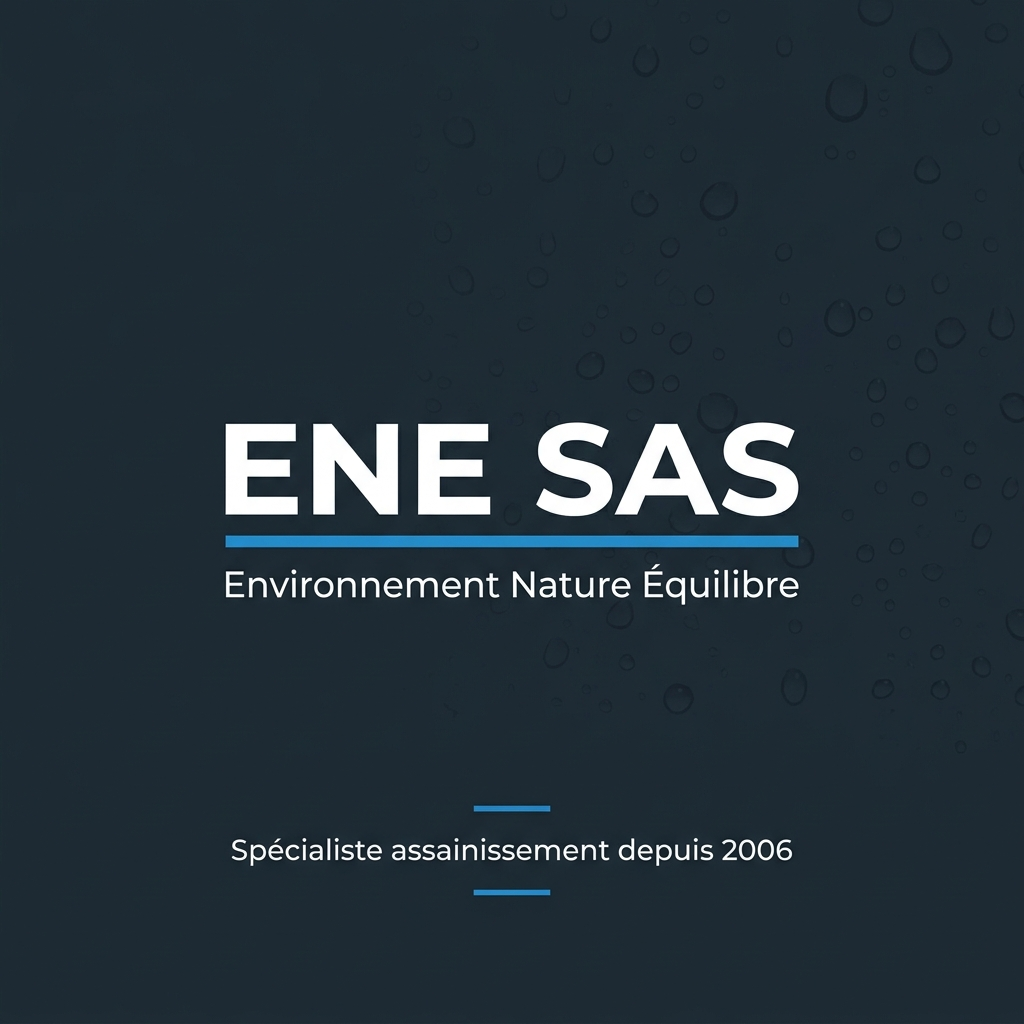
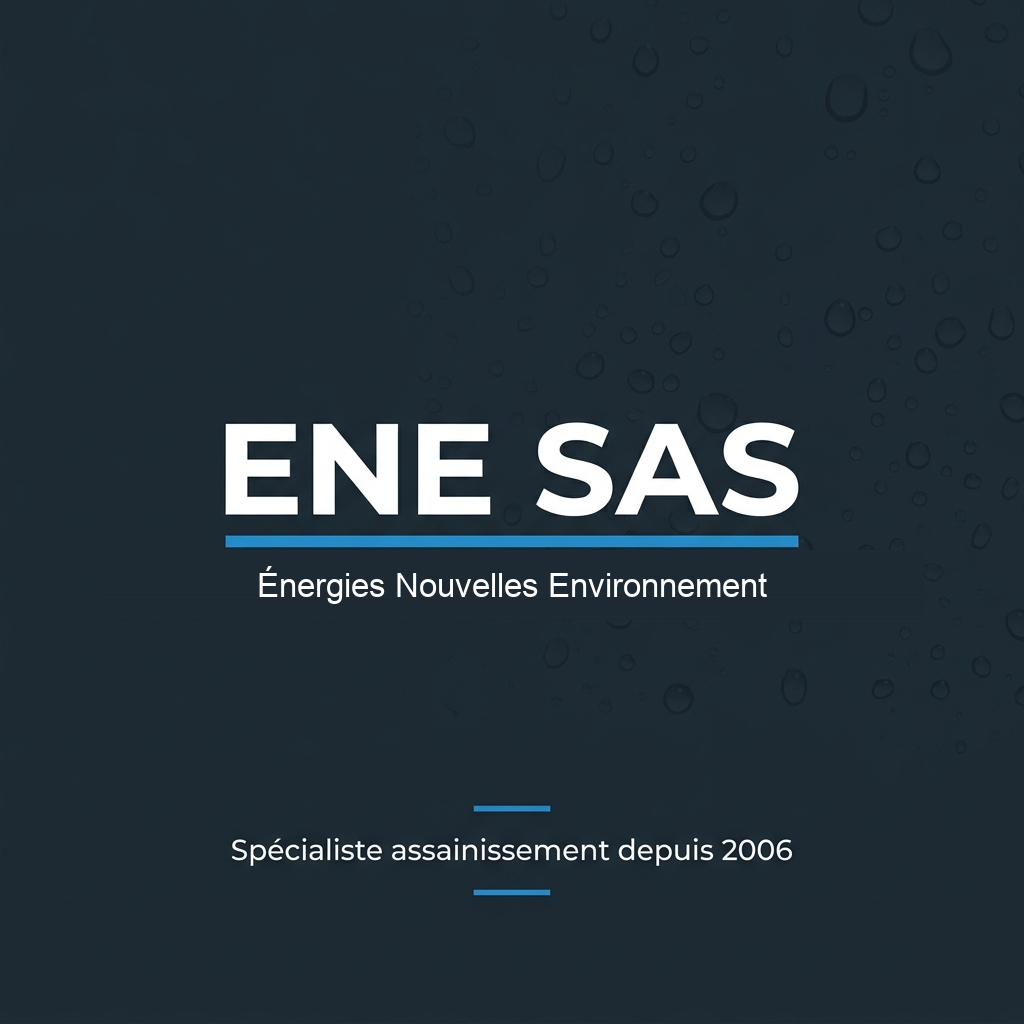
modification ene

Changed region(s): [[0.2188, 0.5312, 0.7812, 0.5938]]

diff --git a/src/app/layout.tsx b/src/app/layout.tsx
@@ -17,7 +17,7 @@ export const metadata: Metadata = {
     template: "%s | ENE SAS Assainissement",
   },
   description:
-    "ENE SAS (Environnement Nature Équilibre), spécialiste de l'assainissement non collectif depuis 2006. Micro-stations Tricel Novo, filtres compacts Seta, pompes de relevage Calpeda. Installation, entretien et SAV à Sancoins (18) et départements 58, 03, 36, 23, 63.",
+    "ENE SAS (Énergies Nouvelles Environnement), spécialiste de l'assainissement non collectif depuis 2006. Micro-stations Tricel Novo, filtres compacts Seta, pompes de relevage Calpeda. Installation, entretien et SAV à Sancoins (18) et départements 58, 03, 36, 23, 63.",
   keywords: [
     "micro-station épuration",
     "assainissement non collectif",
@@ -37,7 +37,7 @@ export const metadata: Metadata = {
     "épuration eaux usées",
   ],
   authors: [{ name: "ENE SAS" }],
-  creator: "ENE SAS - Environnement Nature Équilibre",
+  creator: "ENE SAS - Énergies Nouvelles Environnement",
   publisher: "ENE SAS",
   formatDetection: { telephone: true, email: true, address: true },
   alternates: { canonical: "https://enemicrostation.fr" },
@@ -45,7 +45,7 @@ export const metadata: Metadata = {
     type: "website",
     locale: "fr_FR",
     url: "https://enemicrostation.fr",
-    siteName: "ENE SAS - Environnement Nature Équilibre",
+    siteName: "ENE SAS - Énergies Nouvelles Environnement",
     title: "ENE SAS - Spécialiste Micro-Station d'Épuration depuis 2006",
     description:
       "Micro-stations Tricel Novo, filtres compacts, pompes de relevage. Installation et entretien dans le Cher (18), Nièvre (58), Allier (03) et départements limitrophes.",
@@ -54,7 +54,7 @@ export const metadata: Metadata = {
         url: "/opengraph-image.png",
         width: 1200,
         height: 630,
-        alt: "ENE SAS - Environnement Nature Équilibre - Assainissement",
+        alt: "ENE SAS - Énergies Nouvelles Environnement - Assainissement",
       },
     ],
   },
@@ -80,7 +80,7 @@ export const metadata: Metadata = {
 const jsonLd = {
   "@context": "https://schema.org",
   "@type": "LocalBusiness",
-  name: "ENE SAS - Environnement Nature Équilibre",
+  name: "ENE SAS - Énergies Nouvelles Environnement",
   description: "Spécialiste de l'assainissement non collectif depuis 2006. Micro-stations Tricel Novo, filtres compacts, pompes de relevage, récupération d'eau de pluie.",
   url: "https://enemicrostation.fr",
   telephone: "+33248760284",

diff --git a/src/app/mentions-legales/page.tsx b/src/app/mentions-legales/page.tsx
@@ -2,7 +2,7 @@ import type { Metadata } from "next";
 
 export const metadata: Metadata = {
   title: "Mentions Légales",
-  description: "Mentions légales et conditions générales d'utilisation du site ENE SAS - Environnement Nature Équilibre. Politique de confidentialité et cookies.",
+  description: "Mentions légales et conditions générales d'utilisation du site ENE SAS - Énergies Nouvelles Environnement. Politique de confidentialité et cookies.",
   alternates: { canonical: "https://enemicrostation.fr/mentions-legales" },
   robots: { index: false, follow: true },
 };

diff --git a/src/components/sections/Hero.tsx b/src/components/sections/Hero.tsx
@@ -30,7 +30,7 @@ export default function Hero() {
             ENE SAS
           </h1>
           <p className="text-xl sm:text-2xl text-primary-200 font-medium mb-4">
-            Environnement Nature Équilibre
+            Énergies Nouvelles Environnement
           </p>
           <p className="text-white/70 text-base md:text-lg mb-3">
             Spécialiste en assainissement depuis 2006
